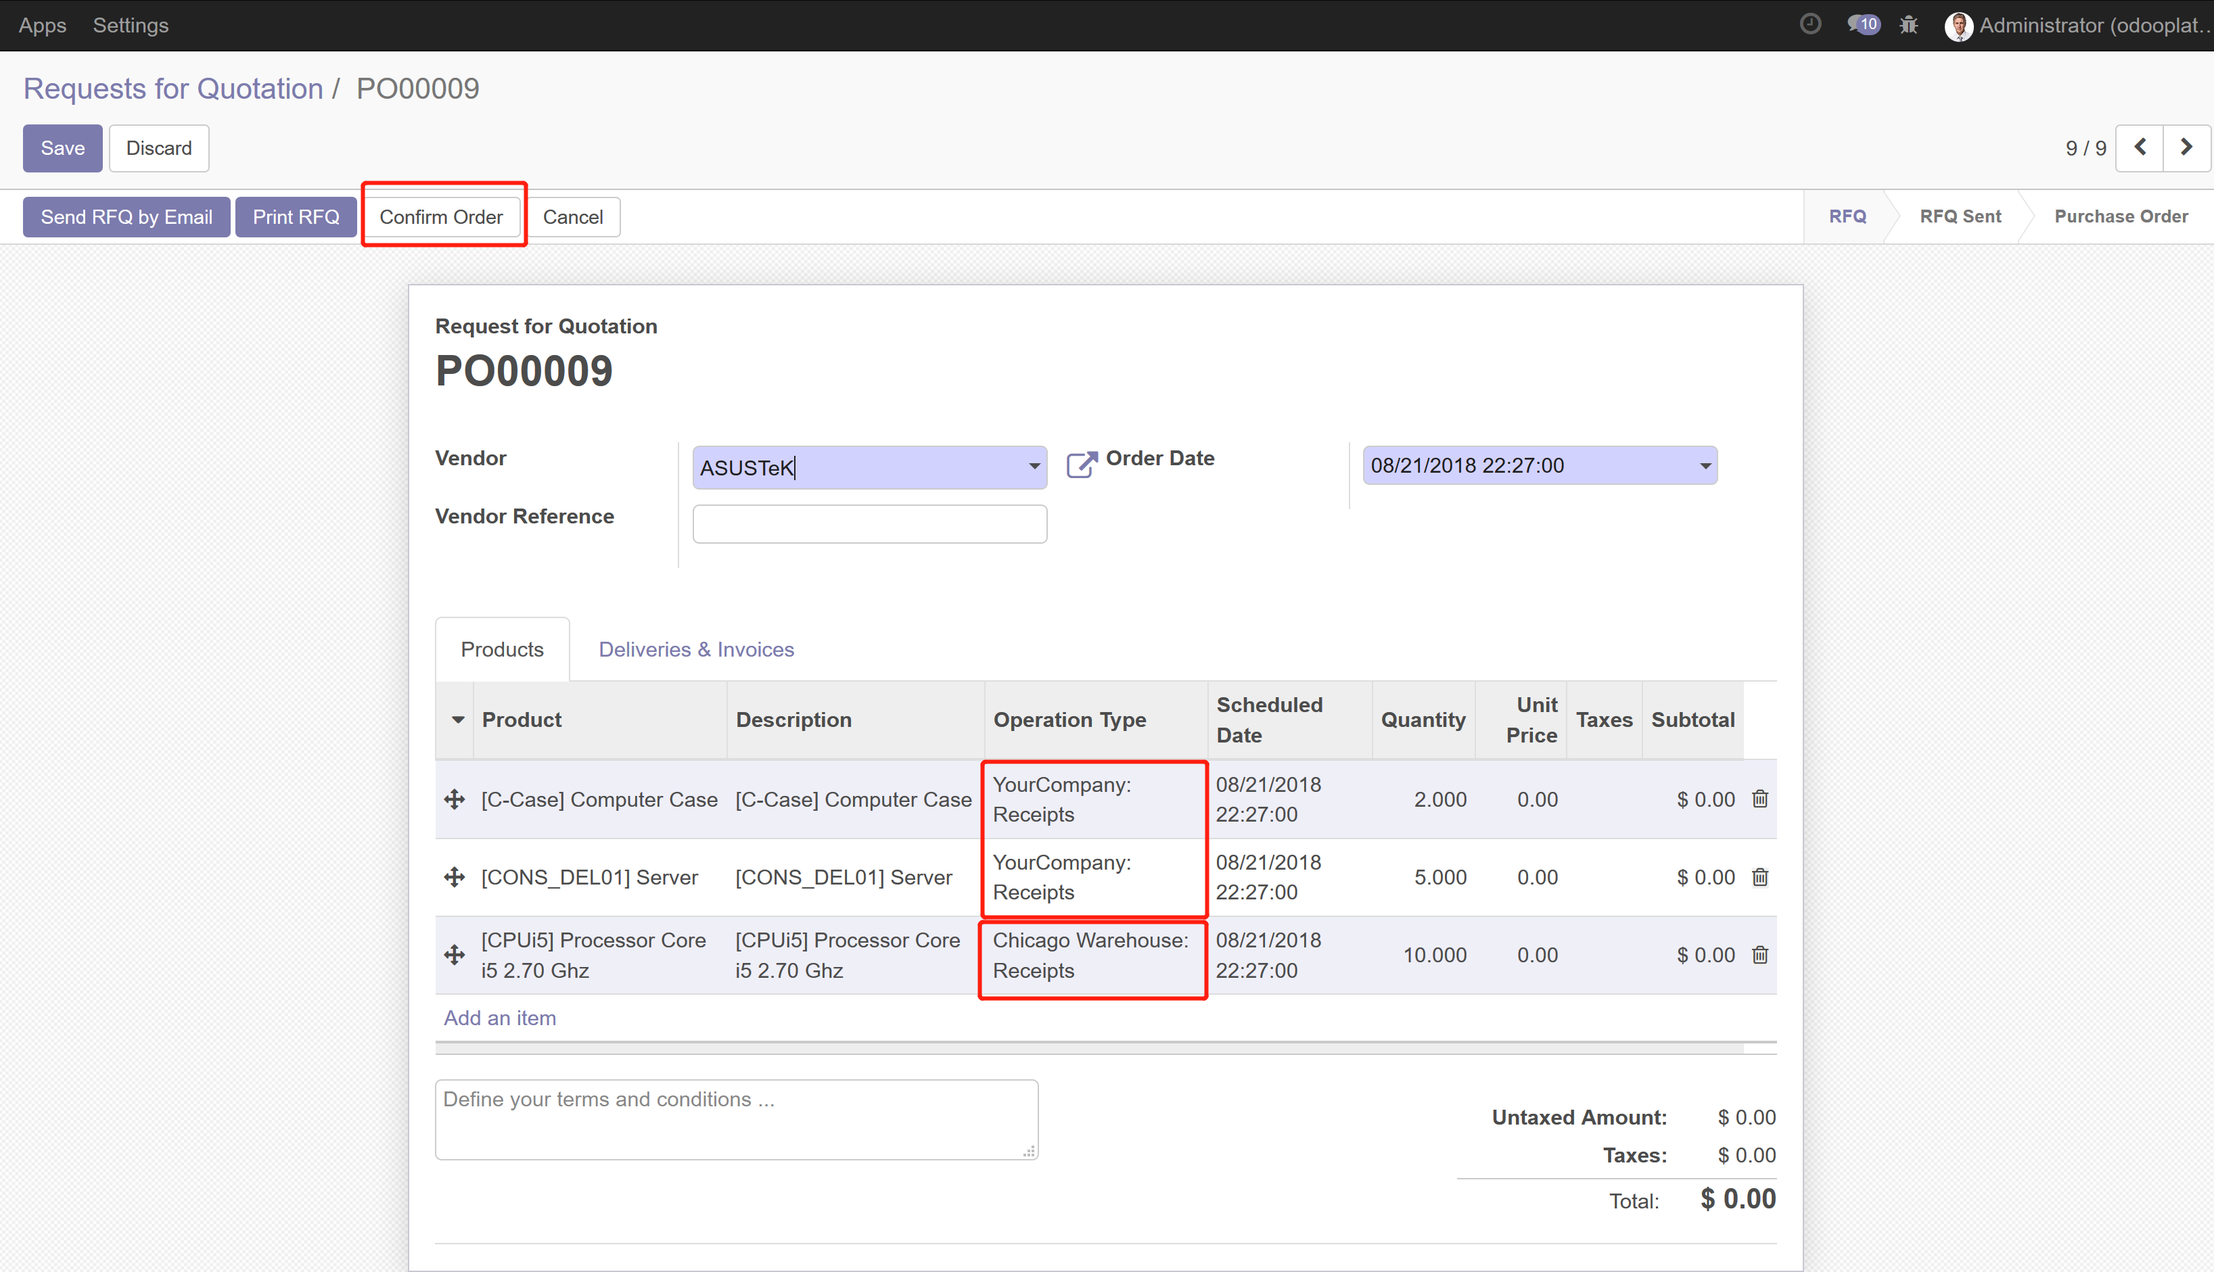
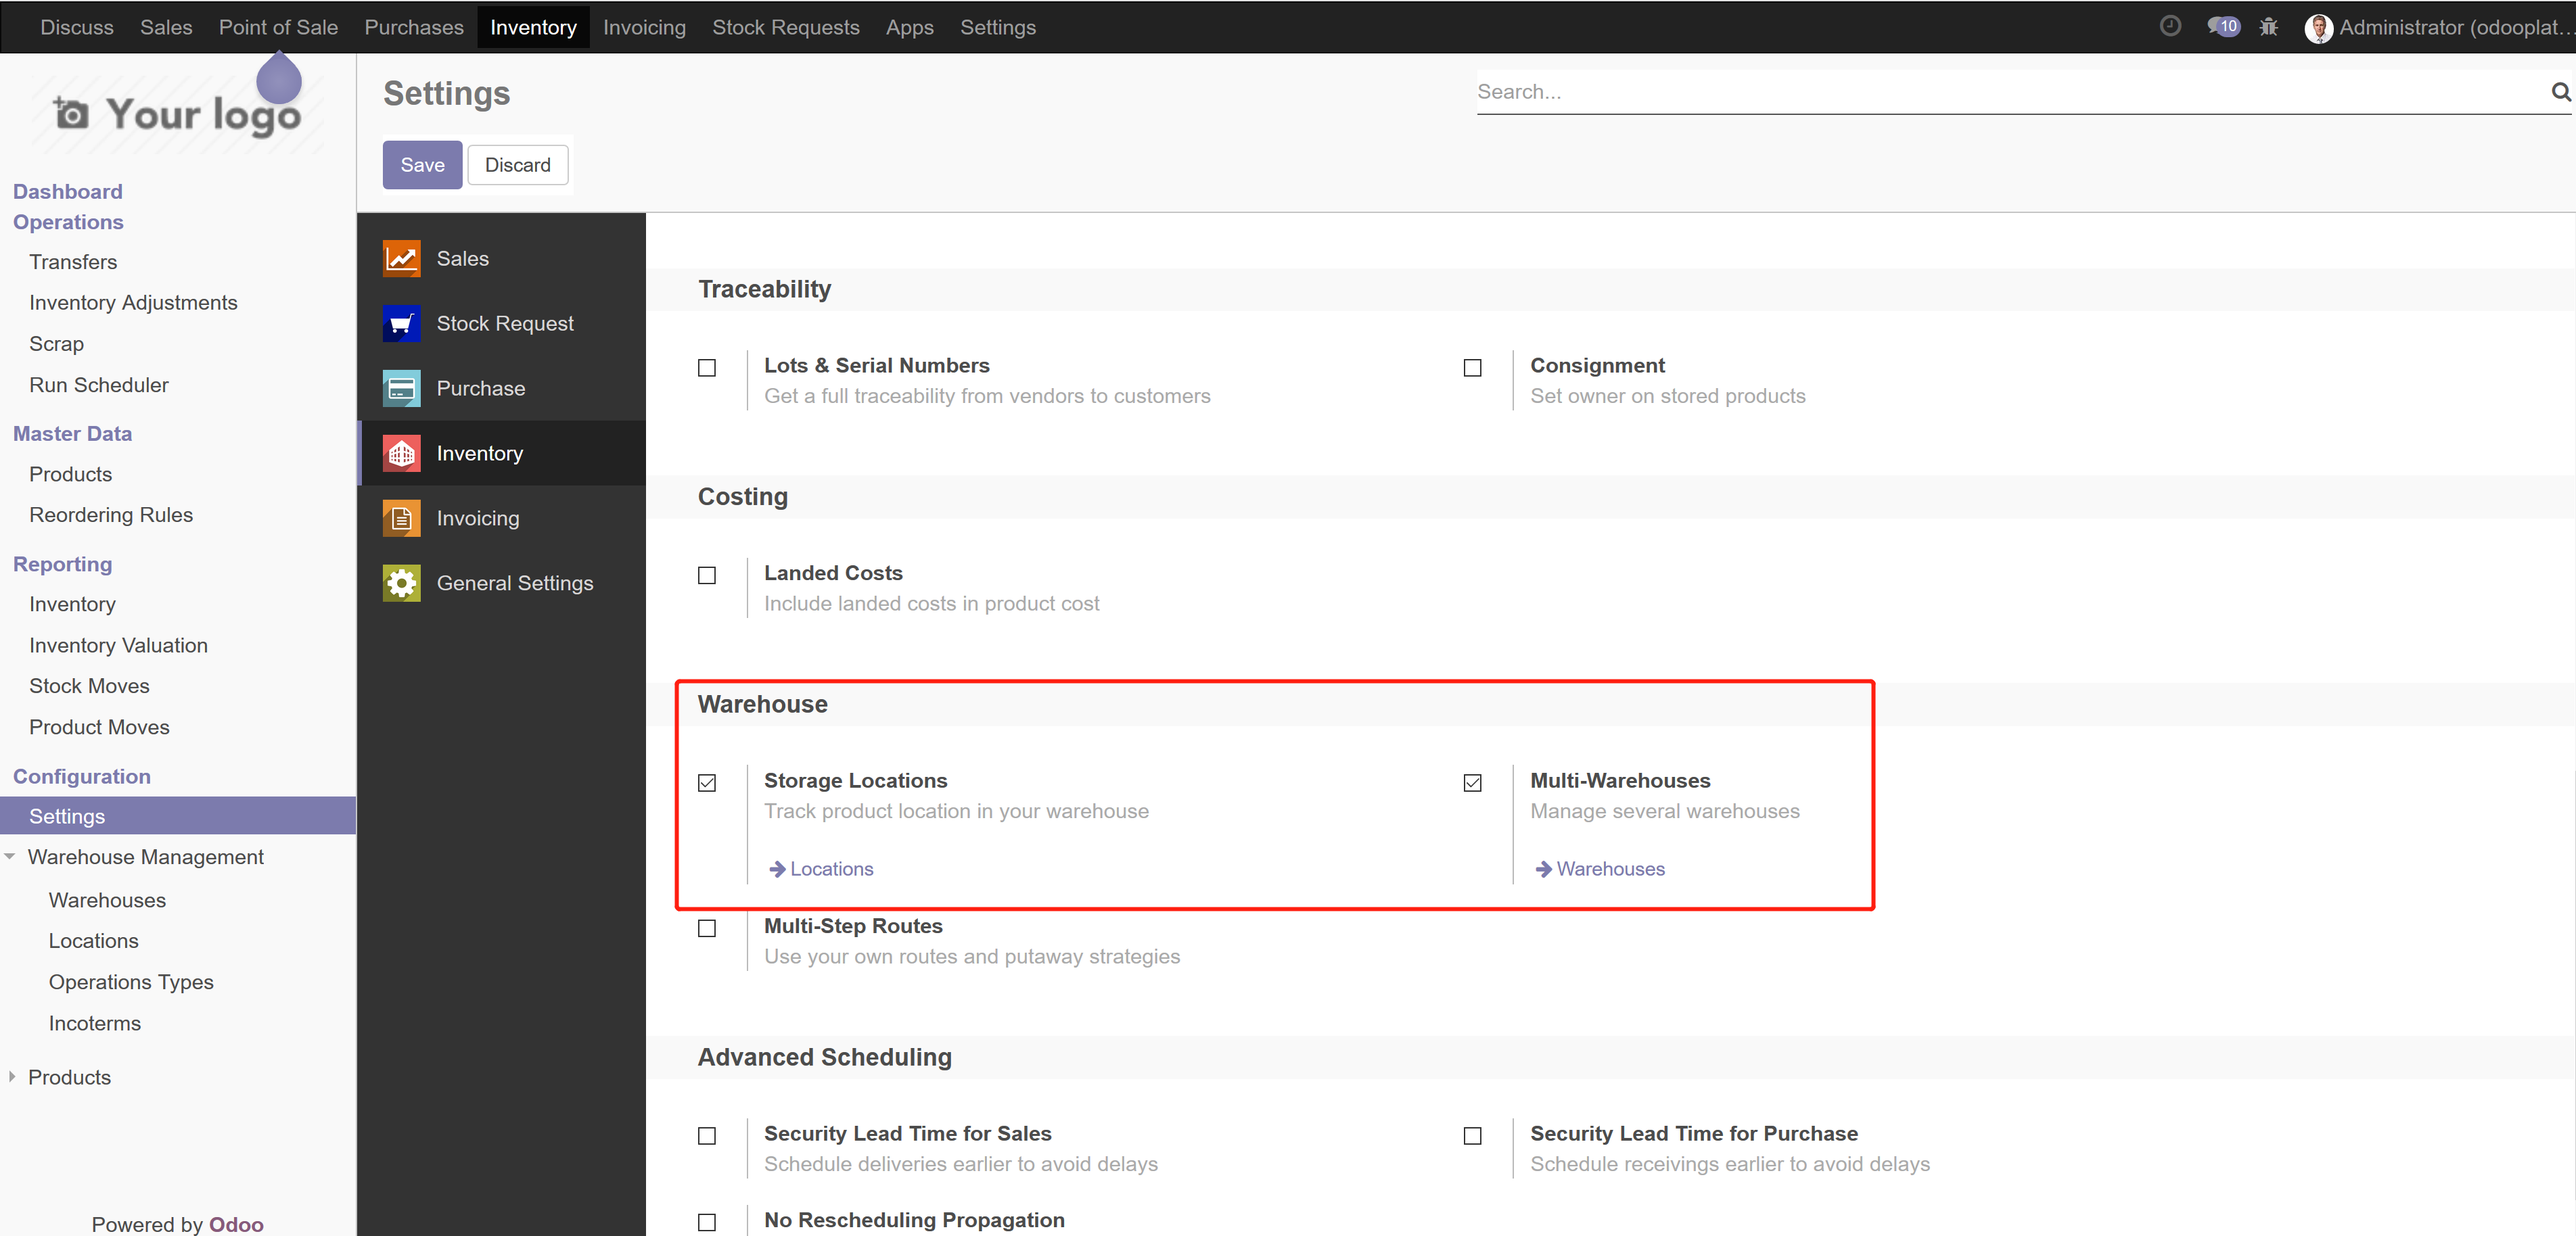
修改，增加设置operation type

diff --git a/oscg_purchase_multi_picking/static/description/index.html b/oscg_purchase_multi_picking/static/description/index.html
@@ -1,4 +1,4 @@
-<section class="oe_container oe_dark">
+<section class="oe_container oe_dark">
     <div class="oe_row">
         <div class="oe_span12" style="width: 90%">
             <h2 class="oe_slogan">Purchase Multi Picking</h2>
@@ -30,11 +30,40 @@
             <div class="oe_screenshot" style="text-align: left;">
                 <ul>
                     <li style="font-weight:bold;">
+                        First step is always to create operation types that you wish to use.
+                    </li>
+                    <li style="font-weight:bold;">
+                        Open "Inventory" menu, and go into  <span style="color: mediumpurple">Configuration-Settings</span>.
+                        Select options "Storage Locations" and "Multi-Warehouses", then save.
+                        This will allow you to set origin and destination location in operation types.
+                    </li>
+                </ul>
+                <img src="1.png" style="width: 100%; margin-bottom: 18px; border: 1px solid lightslategray">
+                <br/>
+                <br/>
+                <ul>
+                    <li style="font-weight:bold;">
+                        Next, open <span style="color: mediumpurple">Configuration-Warehouse Management-Operations Types</span>, and click create.
+                    </li>
+                </ul>
+                <img src="2.png" style="width: 100%; margin-bottom: 18px; border: 1px solid lightslategray">
+                <br/>
+                <br/>
+                <ul>
+                    <li style="font-weight:bold;">
+                        You can set origin and destination location that suit your real business process, and save.
+                    </li>
+                </ul>
+                <img src="3.png" style="width: 100%; margin-bottom: 18px; border: 1px solid lightslategray">
+                <br/>
+                <br/>
+                <ul>
+                    <li style="font-weight:bold;">
                         Create PO, choose correct operation type for lines that you what to apply precise operation
                         types. Then confirm PO.
                     </li>
                 </ul>
-                <img src="1.png" style="width: 100%; margin-bottom: 18px; border: 1px solid lightslategray">
+                <img src="4.png" style="width: 100%; margin-bottom: 18px; border: 1px solid lightslategray">
                 <br/>
                 <br/>
                 <ul>
@@ -47,10 +76,10 @@
                         odoo function.
                     </li>
                 </ul>
-                <img src="2.png" style="width: 100%; margin-bottom: 18px; border: 1px solid lightslategray">
+                <img src="5.png" style="width: 100%; margin-bottom: 18px; border: 1px solid lightslategray">
                 <br/>
                 <br/>
-                <img src="3.png" style="width: 100%; margin-bottom: 18px; border: 1px solid lightslategray">
+                <img src="6.png" style="width: 100%; margin-bottom: 18px; border: 1px solid lightslategray">
                 <br/>
                 <br/>
             </div>

diff --git a/oscg_purchase_multi_picking/__init__.py b/oscg_purchase_multi_picking/__init__.py
@@ -1,5 +1,4 @@
 # -*- coding: utf-8 -*-
-# Part of Odoo. See LICENSE file for full copyright and licensing details.
 
 from . import models
 from . import wizard
